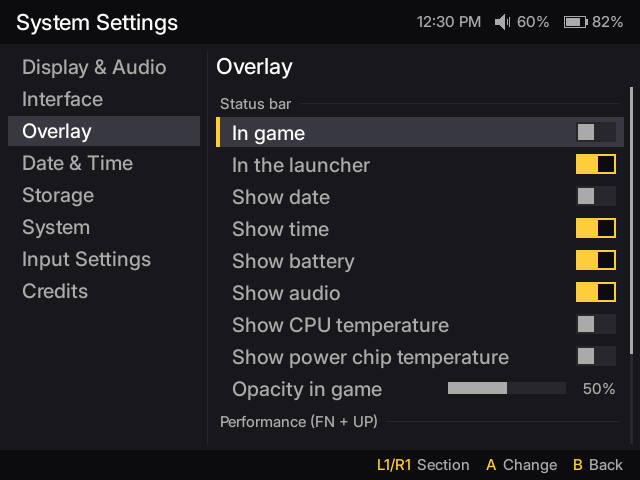
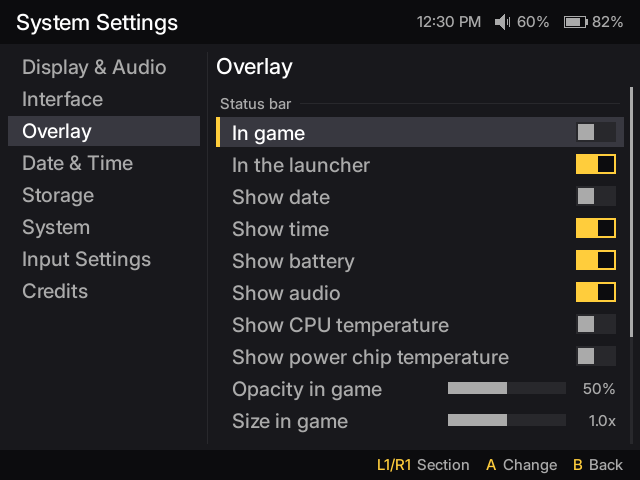
Overlay: the in-game status bar's size
A "Size in game" slider under "Opacity in game" scales the status bar
over games from 0.6x to 1.4x, in steps of 0.1. It is HUD_STATUS_SCALE in
gallium_hud.conf, a percentage (100 by default), which Mesa reads as
GALLIUM_HUD_STATUS_SCALE. The launcher's top bar keeps its size.

The text, the gaps and the margins are scaled. The icons are still drawn
at their size, and each quad edge is scaled about the icon's corner and
rounded up: rounded down, the battery's level touches its outline below
1.0x. A line thinner than a pixel keeps one. The text is the HUD font's
own 8x14 at 0.7x and 16x29 at 1.4x; at 0.6x (7x12) the font is sampled
without filtering, so some one-pixel strokes drop out (the 1, the colon).
At 1.0x the bar comes out as before, pixel for pixel. A bar wider than
the screen (from 1.3x with every item and a long date) starts at the
screen's left edge, and the volume panel goes under the bar at any size.
The most quads, at 1.4x with every item, muted and the volume panel up,
are 89 of the 96.

A Level row with a value of its own shows it instead of the percentage,
and its bar goes from min to max.

Changed region(s): [[0.3438, 0.8438, 0.5938, 0.9062], [0.6875, 0.8438, 0.8125, 0.9062], [0.9375, 0.8438, 0.9688, 0.9062]]

diff --git a/rootfs/package/puppy/src/settings.cpp b/rootfs/package/puppy/src/settings.cpp
@@ -536,8 +536,10 @@ void SettingsScreen::renderPage(Ui& ui) {
             }
             case Row::Kind::Level: {
                 valueW = kValueW;
-                const std::string pct = std::to_string(row.max > 0 ? row.current * 100 / row.max : 0) + "%";
+                const bool shown = !row.value.empty();
+                const std::string pct = shown ? row.value : std::to_string(row.max > 0 ? row.current * 100 / row.max : 0) + "%";
                 const int pctW = textWidth(fonts.small, "100%");
+                const int lo = shown ? row.min : 0;
                 SDL_Rect bar{right - kValueW, mid - 6, kValueW - pctW - 10, 12};
                 SDL_Color groove = theme().tile;
                 if (sel && theme().showcase) {     // on the accent pill: a darker accent, so the ink level shows
@@ -545,7 +547,7 @@ void SettingsScreen::renderPage(Ui& ui) {
                     groove = {Uint8((a.r * 2 + k.r) / 3), Uint8((a.g * 2 + k.g) / 3), Uint8((a.b * 2 + k.b) / 3), 255};
                 }
                 ui.track(bar, groove);
-                const int filled = row.max > 0 ? bar.w * std::clamp(row.current, 0, row.max) / row.max : 0;
+                const int filled = row.max > lo ? bar.w * (std::clamp(row.current, lo, row.max) - lo) / (row.max - lo) : 0;
                 if (filled > 0) ui.track({bar.x, bar.y, filled, bar.h}, sel ? ui.accentOn(true) : theme().muted);
                 drawText(renderer, fonts.small, pct, right - textWidth(fonts.small, pct), mid - TTF_FontHeight(fonts.small) / 2, text);
                 break;

diff --git a/rootfs/package/puppy/src/settings.h b/rootfs/package/puppy/src/settings.h
@@ -24,7 +24,7 @@ struct Row {
     Kind kind = Kind::Info;
     std::string label;          // English, translated when drawn, unless rawLabel
     bool rawLabel = false;
-    std::string value;          // shown as it is: an Info's value, a Number's, a Link's or an Action's status
+    std::string value;          // shown as it is: an Info's value, a Number's, a Level's, a Link's or an Action's status
     std::string hint;           // English: under the page while the row is selected
     bool enabled = true;
     bool on = false;                            // Toggle
@@ -32,7 +32,7 @@ struct Row {
     bool rawChoices = false;
     std::vector<SDL_Color> swatches;            // Choice: a colour block for each, shown instead of its text
     int index = 0;                              // Choice: the current one
-    int current = 0, min = 0, max = 0, step = 1;    // Level (shown as a percentage of max), Number (wraps around),
+    int current = 0, min = 0, max = 0, step = 1;    // Level (a percentage of max, or its value from min to max), Number (wraps around),
                                                     // Info (a bar, when max is set)
     std::function<void(int)> set;               // Toggle (0 or 1), Choice (index), Level and Number (value)
     std::function<void()> run;                  // Link, Action

diff --git a/rootfs/package/puppy/src/system/hud.cpp b/rootfs/package/puppy/src/system/hud.cpp
@@ -28,6 +28,7 @@ static bool readHudFile(const char* path, HudSettings& h) {
         else if (key == "HUD_STATUS_CPU_TEMP") h.statusCpuTemp = value == "true";
         else if (key == "HUD_STATUS_PMIC_TEMP") h.statusPmicTemp = value == "true";
         else if (key == "HUD_STATUS_OPACITY") h.statusOpacity = std::clamp(atoi(value.c_str()), 0, 100);
+        else if (key == "HUD_STATUS_SCALE") h.statusScale = std::clamp(atoi(value.c_str()), 60, 140);
         else if (key == "HUD_VISIBLE") h.visible = value == "true";
         else if (key == "HUD_ITEMS") h.cpu = value == "fps,cpu";
         else if (key == "HUD_STYLE") h.text = value == "text";
@@ -71,6 +72,7 @@ void HudSettings::save() const {
             << "HUD_STATUS_CPU_TEMP=" << flag(statusCpuTemp) << "\n"
             << "HUD_STATUS_PMIC_TEMP=" << flag(statusPmicTemp) << "\n"
             << "HUD_STATUS_OPACITY=" << statusOpacity << "\n"
+            << "HUD_STATUS_SCALE=" << statusScale << "\n"
             << "HUD_VISIBLE=" << flag(visible) << "\n"
             << "HUD_ITEMS=" << (cpu ? "fps,cpu" : "fps") << "\n"
             << "HUD_STYLE=" << (text ? "text" : "graph") << "\n"

diff --git a/rootfs/package/puppy/src/system/hud.h b/rootfs/package/puppy/src/system/hud.h
@@ -10,6 +10,7 @@ struct HudSettings {
     bool statusDate = false, statusTime = false, statusBattery = false, statusAudio = false;
     bool statusCpuTemp = false, statusPmicTemp = false;
     int statusOpacity = 50;             // in games
+    int statusScale = 100;              // in games, a percentage of the default size: 60 to 140
     bool visible = false;               // the performance overlay, from the game's start
     bool cpu = true;                    // FPS and CPU; else FPS only
     bool text = false;                  // as text; else graphs

diff --git a/rootfs/package/puppy/src/settings_pages.cpp b/rootfs/package/puppy/src/settings_pages.cpp
@@ -328,6 +328,12 @@ std::vector<Row> SettingsScreen::overlayPage() {
         hud.statusOpacity = v;
         hud.save();
     }));
+    Row size = Row::level("Size in game", hud.statusScale, 60, 140, 10, [this](int v) {
+        hud.statusScale = v;
+        hud.save();
+    });
+    size.value = std::to_string(hud.statusScale / 100) + "." + std::to_string(hud.statusScale / 10 % 10) + "x";
+    rows.push_back(size);
 
     rows.push_back(Row::section("Performance (FN + UP)"));
     rows.push_back(flag("Show on game start", &HudSettings::visible));

diff --git a/README.md b/README.md
@@ -132,7 +132,7 @@ Puppy is goodluckOS' application launcher. It's what you see when you start good
 | Search (X): the on-screen keyboard filters every tab as you type | |
 | ![Search with the on-screen keyboard](docs/screenshots/puppy-search.png) | |
 
-The top bar shows the time, the volume (a headphones icon when the sound goes to the headphones only) and the battery, whose level turns yellow while charging, green when full and red at 10% or less. System Settings -> Overlay can add the date and the CPU and power chip temperatures, or take any of them out.
+The top bar shows the time, the volume (a headphones icon when the sound goes to the headphones only) and the battery, whose level turns yellow while charging, green when full and red at 10% or less. System Settings -> Overlay can add the date and the CPU and power chip temperatures, or take any of them out, and sets the bar's opacity and size over games.
 
 Changing the brightness (FN+Vol) or the volume shows a level bar for a moment, and FN + D-pad down shows the audio output. It is drawn by the graphics driver (a patch to Mesa's Gallium HUD), so it looks the same over the launcher, the settings and every game:
 
@@ -229,6 +229,7 @@ System Settings
 │   ├── Show CPU temperature
 │   ├── Show power chip temperature
 │   ├── Opacity in game
+│   ├── Size in game ─ 0.6x to 1.4x
 │   ├── Performance (FN + UP): Show on game start
 │   ├── Content: FPS / FPS + CPU
 │   ├── Style: Graph / Text
